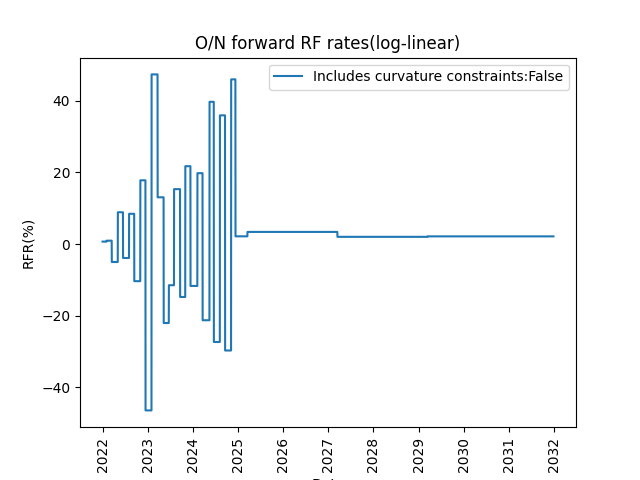
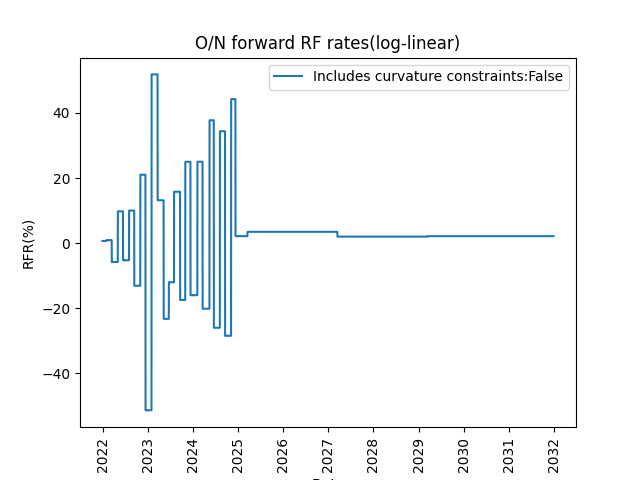
update curves with curvature constraint

diff --git a/README.md b/README.md
@@ -30,16 +30,17 @@ A compact Python library for swap curve construction, discount curve calibration
 
 <img src="./images/advanced_curve3.png" alt="Curve with turns and swap spread" height="300px" width="500px" />
 
-### Log-linear SONIA curves with and without curvature constraints
+### Log-linear SONIA curves with turns and curvature constraints
+- Turns on meeting dates
 - Curvature constraint enforced as 2nd derivative = 0 on MPC dates via
   `SwapSpread(SwapSpread(mpc_1, mpc_2), SwapSpread(mpc_2, mpc_3)): 0`
 
-<!-- <table>
+<table>
   <tr>
     <td><strong>No curvature constraints</strong><br/><img src="./images/advanced_curve4.png" alt="Log-linear with no curvature constraints" height="300px" width="500px" /></td>
     <td><strong>With curvature constraints</strong><br/><img src="./images/advanced_curve5.png" alt="Log-linear with curvature constraints" height="300px" width="500px" /></td>
   </tr>
-</table> -->
+</table>
 
 ## B-spline implementation (visible, all key plots)
 - B-spline basis generation (orders 1–4)
